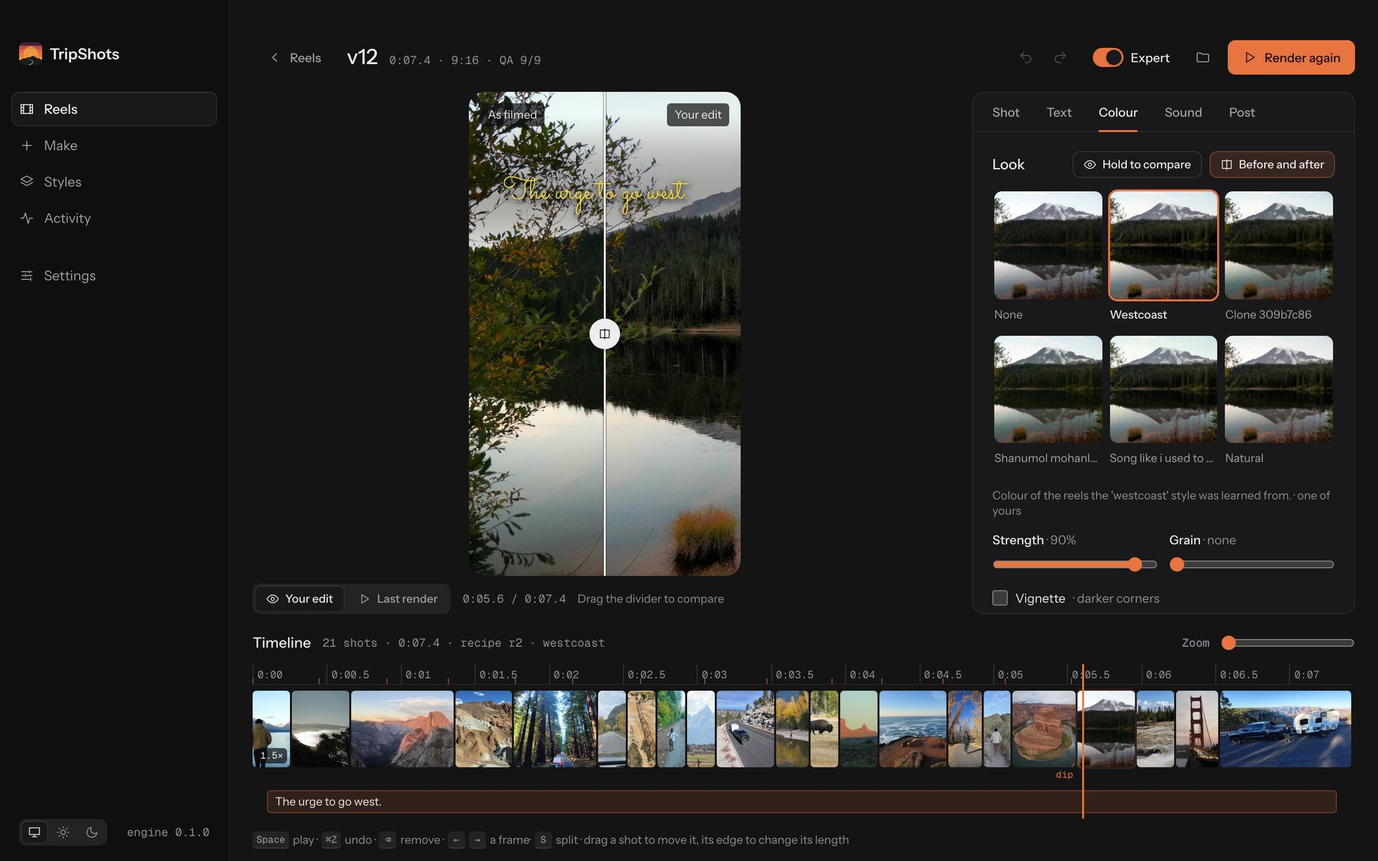
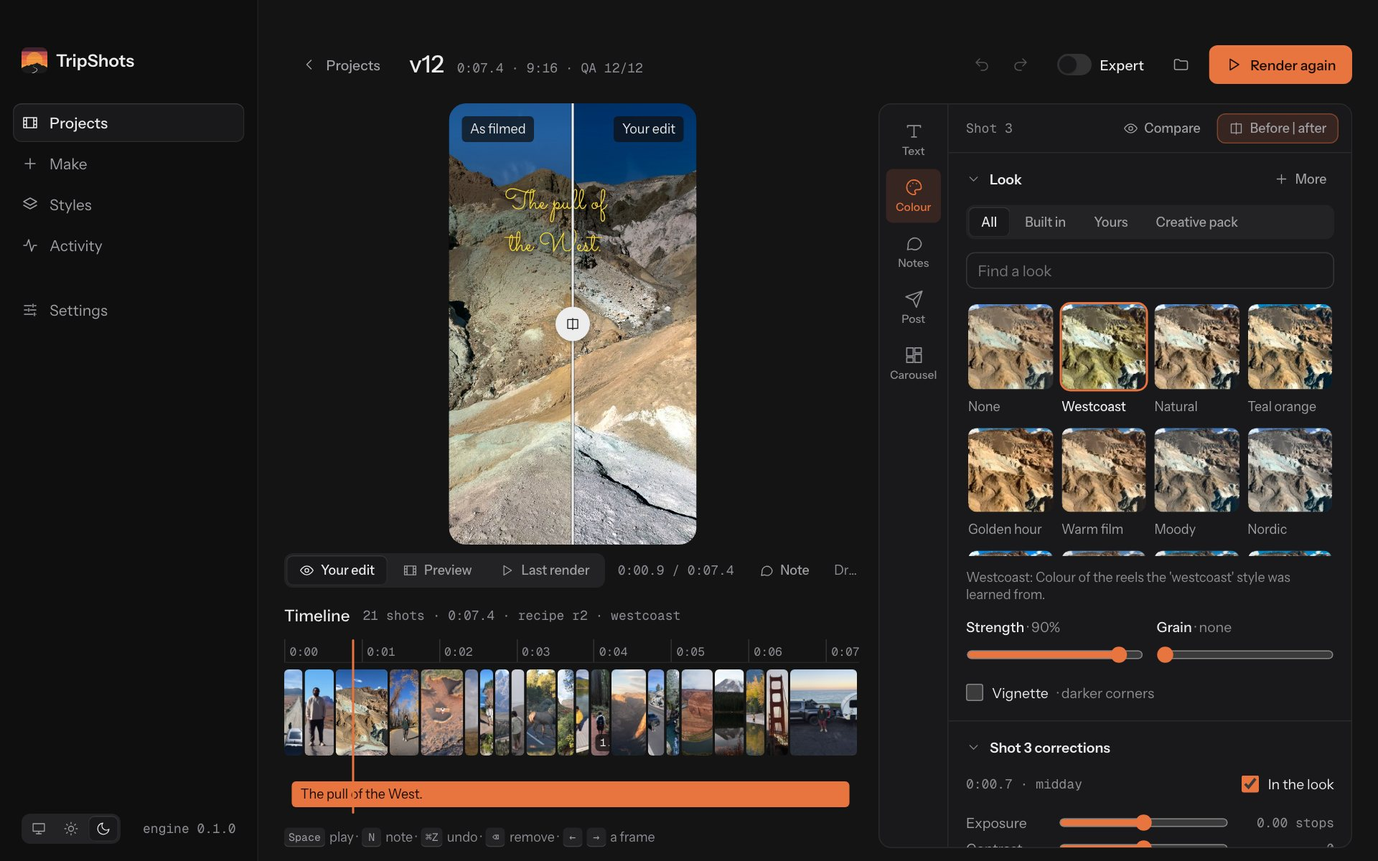
Page layouts in the app, and README screenshots of the current app
The Shot tab gets Page layout (prints on paper or a clip per place over
the route, with paper and map choices) and each page's words; Make gets
Pages; the reel detail API and MCP make carry them. The README's
screenshots are retaken from the current app (Projects, the editor,
page layouts, text, colour, Make, the ten AIs, the terminal app) and its
text describes what the app does now.

diff --git a/desktop/src/views/reel/ShotPanel.svelte b/desktop/src/views/reel/ShotPanel.svelte
@@ -23,6 +23,24 @@
       choosing = false;
     }
   }
+  // page layouts (pages.py): the whole reel on pages, and one page's words
+  const pageKinds = [["off", "Full screen"], ["print", "Prints on paper"], ["route", "A clip per place, over the route map"]];
+  let pageBusy = $state(false);
+  async function setPage(kind, extra = {}) {
+    pageBusy = true;
+    try {
+      await edit({ op: "page", kind, ...extra }, true);
+    } finally {
+      pageBusy = false;
+    }
+  }
+  let pw = $state({ title: "", left: "", right: "", label: "" });
+  let pkey = "";
+  $effect(() => {
+    const k = s?.page ? `${s.slot}|${JSON.stringify(s.page)}` : "-";
+    if (k !== pkey) ((pkey = k), s?.page && (pw = { title: s.page.title || "", left: s.page.left || "", right: s.page.right || "", label: s.page.label || "" }));
+  });
+  const pageWords = (k) => (s.page[k] || "") !== pw[k] && op({ op: "page", [k]: pw[k] }, true);
   const ramps = [[null, "None"], ["velocity", "Velocity"], ["slam", "Slam"], ["bullet", "Bullet"], ["rush", "Rush"], ["impact", "Impact"], ["surge", "Surge"]];
   const layouts = [["crop", "Crop to the subject"], ["pan", "Pan across"], ["blur_fill", "Whole frame, blurred behind"], ["fill", "Fill (already upright)"]];
   const nice = (id) => id.replace(/_/g, " ").replace(/^./, (c) => c.toUpperCase());
@@ -92,6 +110,36 @@
     {/if}
     <p class="quiet small">Transitions and moves show in motion: <b>Preview</b> or render to see them. The still above shows colour, effects and framing.</p>
   </Section>
+  <Section id="shot-page" title="Page layout" summary={(pageKinds.find(([k]) => k === (reel?.page?.kind || "off")) || [, ""])[1]}>
+    <div class="field">
+      <label for="pg-kind">Every shot</label>
+      <select id="pg-kind" value={reel?.page?.kind || "off"} disabled={ed.busy || pageBusy}
+              onchange={(e) => setPage(e.currentTarget.value)}>
+        {#each pageKinds as [k, label]}<option value={k}>{label}</option>{/each}
+      </select>
+    </div>
+    {#if reel?.page?.kind === "print"}
+      <div class="field">
+        <label for="pg-paper">Paper</label>
+        <select id="pg-paper" value={reel.page.paper || "white"} disabled={ed.busy || pageBusy}
+                onchange={(e) => setPage("print", { paper: e.currentTarget.value })}>
+          {#each [["white", "White"], ["cream", "Cream"], ["black", "Black"]] as [k, label]}<option value={k}>{label}</option>{/each}
+        </select>
+      </div>
+      <p class="quiet small">Each shot a print on the page, a word above it, where and when under it. The opening shot stays full screen with its hook</p>
+    {:else if reel?.page?.kind === "route"}
+      <div class="field">
+        <label for="pg-theme">Map</label>
+        <select id="pg-theme" value={reel.page.theme || "light"} disabled={ed.busy || pageBusy}
+                onchange={(e) => setPage("route", { theme: e.currentTarget.value })}>
+          {#each [["light", "Light"], ["dark", "Dark"]] as [k, label]}<option value={k}>{label}</option>{/each}
+        </select>
+      </div>
+      <p class="quiet small">Shots in the order you filmed them, the place under each, a pin on the trip's route. Needs footage with GPS from three places or more</p>
+    {:else}
+      <p class="quiet small">Set every shot on a page: prints on paper, or a clip per place over the route map</p>
+    {/if}
+  </Section>
 {/snippet}
 
 {#if ed.sel?.kind === "pip"}
@@ -159,6 +207,24 @@
     </div>
   </Section>
 
+  {#if s.page}
+    <Section id="shot-pagewords" title="Page" open={true} summary={s.page.title || s.page.label || s.page.left || ""}>
+      {#if reel?.page?.kind === "print"}
+        <div class="field"><label for="pg-title">Above the print</label>
+          <input id="pg-title" type="text" bind:value={pw.title} maxlength="40" onchange={() => pageWords("title")} placeholder="None" /></div>
+        <div class="grid2">
+          <div class="field"><label for="pg-left">Under, left</label>
+            <input id="pg-left" type="text" bind:value={pw.left} maxlength="40" onchange={() => pageWords("left")} /></div>
+          <div class="field"><label for="pg-right">Under, right</label>
+            <input id="pg-right" type="text" bind:value={pw.right} maxlength="40" onchange={() => pageWords("right")} /></div>
+        </div>
+      {:else}
+        <div class="field"><label for="pg-label">Under the picture</label>
+          <input id="pg-label" type="text" bind:value={pw.label} maxlength="40" onchange={() => pageWords("label")} /></div>
+        <p class="quiet small">{s.page.stop >= 0 ? `Pin on stop ${s.page.stop + 1} of the route` : "Where this was filmed isn't known: no pin"}</p>
+      {/if}
+    </Section>
+  {/if}
   {#if s.slot < reel.segments.length}
     {#if s.moves?.length}
       <Section id="shot-moves" title="Signature move" open={true} summary={s.moves.map((m) => m.name).join(", ")}>

diff --git a/desktop/src/views/Make.svelte b/desktop/src/views/Make.svelte
@@ -19,6 +19,7 @@
   let style = $state(app.prefill?.style || "");
   let name = $state("");
   let orientation = $state("auto");
+  let page = $state("auto");
   let light = $state("any");
   let variants = $state(1);
   let hook = $state("");
@@ -106,7 +107,8 @@
   function make() {
     if (!sources.length) return toast("Add a folder of photos and clips first", "error");
     run("make", { sources, music: sound.trim() || null, style: style || null, name: name.trim() || null,
-                  orientation, light: light === "any" ? null : light, variants, dry_run: planOnly,
+                  orientation, light: light === "any" ? null : light, page: page === "auto" ? null : page,
+                  variants, dry_run: planOnly,
                   hook: hook.trim() || null }, name.trim() || "New reel");
   }
   async function add(directory) {
@@ -245,6 +247,15 @@
             <select id="mk-light" bind:value={light}>
               {#each [["any", "Any light"], ["golden", "Golden hour and sunset"], ["sunset", "Sunset"], ["blue", "Blue hour"],
                       ["day", "Daylight"], ["night", "Night"]] as [id, label]}
+                <option value={id}>{label}</option>
+              {/each}
+            </select>
+          </div>
+          <div class="field">
+            <label class="lbl" for="mk-page">Pages <span class="hint">· a trend layout</span></label>
+            <select id="mk-page" bind:value={page}>
+              {#each [["auto", "Automatic (the AI may offer one)"], ["off", "Full screen"], ["print", "Prints on paper"],
+                      ["route", "A clip per place, over the route map"]] as [id, label]}
                 <option value={id}>{label}</option>
               {/each}
             </select>

diff --git a/tripshots/mcp_server.py b/tripshots/mcp_server.py
@@ -325,7 +325,7 @@ async def make_reel(sources: list[str], music: str | None = None, style: str | N
                     text_motion: str | None = None, no_location: bool = False,
                     captions: str | None = None, recipe: str | None = None,
                     orientation: str | None = None, fresh: str | None = None, light: str | None = None,
-                    stabilize: str | None = None) -> list:
+                    stabilize: str | None = None, page: str | None = None) -> list:
     """Plan (dry_run=true, default) or plan+render a reel.
 
     sources: selection ids from find_footage ("sel:xxxx") and/or folders/files.
@@ -354,6 +354,9 @@ async def make_reel(sources: list[str], music: str | None = None, style: str | N
       best shots again (e.g. another version of the same reel under a new name).
     light: golden | sunset | blue | day | night: only shots in that light (preferred, when too few are).
     stabilize: auto | on | off: take the shake out of handheld clips (auto: in calm or held shots).
+    page: auto | print | route | off: every shot on a page. print = each shot a photographic print on paper (a word
+      above, where and when under it); route = each shot in a window over the trip's route map, a pin on where it
+      was filmed (shots in the order filmed). auto (default) lets the effects director offer them.
     upload_copy: also write a copy without the music (automatic for reel links), so the user can post it and add the
       same sound inside Instagram: do this when the music is a commercial song.
     Returns the plan path and the storyboard image to review (or a job id to poll)."""
@@ -363,7 +366,7 @@ async def make_reel(sources: list[str], music: str | None = None, style: str | N
                      text_preset=text_preset, route_map=route_map, speed_ramps=speed_ramps, speed_up=speed_up,
                      drop_speed=drop_speed, format=format, text_motion=text_motion, captions=captions,
                      recipe=recipe, orientation=orientation, fresh=fresh, light=light,
-                     stabilize=stabilize)
+                     stabilize=stabilize, page=page)
     st = await _run_job(args, "make", name or " ".join(sources))
     return _finished(st)
 
@@ -447,6 +450,8 @@ async def edit_plan(plan: str, edits: list[dict]) -> list:
       {"op":"freeze","segment":3,"at":0.8,"dur":1.0}  (hold that frame, cut in there)  {"op":"reverse","segment":3,"on":true}
     Effects (list_effects): {"op":"effect","segment":3,"id":"glow","amount":0.5} (id null removes)
       {"op":"auto_effects"}  the effects director picks transitions, text motion/looks and shot effects again
+      {"op":"page","kind":"print"|"route"|"off","paper":"white"|"cream"|"black","theme":"light"|"dark"}  every shot on a page
+      {"op":"page","segment":3,"title":"The Coast","left":"Big Sur","right":"October 2026","label":"..."}  one page's words
       {"op":"log","segment":3|"all","profile":"apple_log"|"dlog"|"slog3"|"vlog"|"flog"|"flog2"|"clog3"|"auto"|null}  flat log footage made normal
     Overlay lane and keyframes: {"op":"pip_add","shot_id":"S040","start":3.0,"dur":2.0,"x":0.72,"y":0.28,"scale":0.4}
       {"op":"pip_edit","index":1,"x":0.3,"scale":0.5}  {"op":"pip_delete","index":1}

diff --git a/tripshots/server.py b/tripshots/server.py
@@ -114,7 +114,8 @@ def reel_detail(plan: Path) -> dict:
                      "vibes": list(((sh.get("ai") or {}).get("vibes") or {}))[:3],
                      "size": (sh.get("ai") or {}).get("shot_size"), "angle": (sh.get("ai") or {}).get("angle"),
                      "keys": s.get("keys") or [],
-                     "moves": [{"id": m, "name": MOVE_NAMES.get(m, m)} for m in moves_on(s)]})
+                     "moves": [{"id": m, "name": MOVE_NAMES.get(m, m)} for m in moves_on(s)],
+                     "page": {k: v for k, v in (s.get("page") or {}).items() if k != "held"} or None})
     from .planedit import history, texts as plan_texts
     cap = _side(plan, ".caption.txt")
     music = p.get("music") or {}
@@ -129,6 +130,7 @@ def reel_detail(plan: Path) -> dict:
             "beat_punch": (p.get("motion") or {}).get("beat_punch"),
             "sound_sheet": _side(plan, ".sound.jpg"), "grade": _side(plan, ".grade.jpg"),
             "draft": _draft(plan), "effects": p.get("effects"),
+            "page": {k: (p.get("page") or {}).get(k) for k in ("kind", "paper", "theme")} if p.get("page") else None,
             "pips": [{"index": k + 1, **{x: q.get(x) for x in ("shot_id", "kind", "start", "dur", "x", "y", "scale", "thumb")}}
                      for k, q in enumerate(p.get("pips") or [])]}
 

diff --git a/README.md b/README.md
@@ -11,7 +11,7 @@ effects, and renders a reel ready to post: upright 1080×1920, or a real 1920×1
 Nothing is generated: every frame is your own footage. Use it as a desktop app for macOS, Windows and Linux, from the
 command line, or through an AI agent.
 
-![The TripShots desktop app: your reels, newest first](docs/images/desktop-reels.jpg)
+![The TripShots desktop app: your projects, newest first, with pinned, favourites, collections and folders](docs/images/desktop-reels.jpg)
 
 ```
 your footage ─► find shots ─► AI judges each shot ─► beats of the song ─► edit plan ─► 1080×1920 reel
@@ -26,8 +26,9 @@ your footage ─► find shots ─► AI judges each shot ─► beats of the so
 - **Ask for footage the way you'd describe it:** by place ("Yellowstone National Park", matched by GPS inside its real outline), dates, or who's in it ("the pictures I'm in", "Lisbon with mom"), using face recognition that runs on your computer.
 - **Works with AI agents:** an [MCP server](docs/agents.md) for Claude Code, Claude Desktop, OpenClaw and any MCP agent, plus a portable [agent skill](skills/tripshots/SKILL.md) and `tripshots ask "…"`.
 - **Tells a story, not a slideshow:** every reel gets a hook in the first second, a build, a payoff on the drop and a looping ending; formats (POV, numbered places, Day N, reveal), cuts that follow dialogue and lyrics, match cuts, photos in depth, and a critic that checks the plan before rendering ([how](docs/storytelling.md)).
-- **Edits like a person would:** an AI (your Claude subscription, or a key for the Claude API, MiniMax, OpenAI, Gemini, Grok, Mistral, OpenRouter or DeepSeek, or a local Ollama model) judges every shot; cuts land on the beat; strong shots go on strong beats; landscape footage is reframed to 9:16 around the subject.
+- **Edits like a person would:** an AI (your Claude subscription, or a key for the Claude API, MiniMax, OpenAI, Gemini, Grok, Mistral, OpenRouter or DeepSeek, or a local Ollama model, tried in the order you set) judges every shot; cuts land on the beat; strong shots go on strong beats; wide footage is cropped to 9:16 from the frames that actually play, keeping people whole with room in front of them.
 - **Looks finished:** per-shot colour grading, transitions on the beat, animated text, titles behind the skyline, split screens, speed ramps, freeze-frames, animated route maps, real sound effects and ambience.
+- **Knows the trends:** an effects director picks transitions, text motion and the big trend moves for each reel (the flash zoom, freeze-frame intro, clone trail, colour pop, photo wall, backdrop swap, camera roll opener), and two page layouts: your shots as prints on paper, or a clip per place over the trip's route map ([the effects library](docs/effects.md)).
 - **Yours to change:** every reel is a readable `plan.json` with a storyboard. Swap a shot, change the hook, re-render; or open it in DaVinci Resolve / Premiere (EDL, OpenTimelineIO).
 - **Finish in Instagram's Edits:** hand the reel to the Edits Mac app with the hard parts baked in and the text, sound effects and song left editable, so you post with Instagram's licensed music ([how](docs/edits.md)).
 - **Analyses footage on its own:** `tripshots analyze` describes every photo and clip (caption, tags, subjects, scene, light, people, text, landmark, aesthetic, focus, colours, near-duplicates, camera, place, trip) into documented JSON that reels, other apps (collages, albums) and other AI tasks reuse ([format](docs/analysis.md)).
@@ -38,16 +39,21 @@ your footage ─► find shots ─► AI judges each shot ─► beats of the so
 A small native app (no bundled browser; about 5 MB) with light and dark themes. The engine that analyses footage and
 renders reels downloads once on first launch, checked against TripShots' signature, and keeps itself up to date.
 
-![A reel in the desktop app's editor, in Expert mode: the viewer showing your edit, the Shot tab with timing and transition, and the timeline with the beats](docs/images/desktop-reel.jpg)
+![A reel in the desktop app's editor, in Expert mode: a clip per place over the route map in the viewer, the Shot tab with the shot's tools, timing and its page words, and the timeline](docs/images/desktop-reel.jpg)
 
-- **Reels:** every reel you've made, grouped by folder, upright and wide side by side.
+- **Projects:** every reel you've made, upright and wide side by side, with pinned, favourites, collections, folders,
+  search and sort; rename, duplicate or move one to the Trash.
 - **Make:** describe the reel ("a reel with all my drone footage") and TripShots finds the footage, picks a style
   and a sound and makes it, or choose the footage, sound, style, shape and versions yourself; progress shows step
   by step.
-- **A reel:** an editor on one screen: the viewer, tabs for the words on screen (font, size, colour, place,
-  animation), the colour (looks previewed on your own shot, per-shot corrections) and the post (a caption
-  written for reach, hashtags, keywords, alt text), and the timeline. **Expert** adds shot-by-shot editing:
-  lengths on the beat, order, splits, speed, transitions, framing and the music.
+- **A reel:** an editor on one screen: the viewer (a still of your edit, a quick motion **Preview**, or the last
+  render), tabs for the words on screen (font, size, colour, place, animation), the colour (looks previewed on your
+  own shot, per-shot corrections, before and after), notes to change it in your own words, the post (a caption
+  written for reach, hashtags, keywords, alt text) and a carousel post, and the timeline. **Expert** adds
+  shot-by-shot editing: replace a shot with any clip and choose the part that plays (or let the AI choose), lengths
+  on the beat, order, splits, freeze, reverse, speed and ramps, transitions, effects and signature moves, zoom
+  keyframes, a shot on top, framing, steadiness, the page layout and the music. **Choose effects with AI** picks
+  them for the whole reel and says what it changed.
 - **Styles:** yours and the built-in ones, each a click from a new reel; learn one from reel links.
 - **Activity:** everything being made, rendered or learned, with its state, its steps and its log, including jobs
   started from the command line or an AI agent.
@@ -56,16 +62,23 @@ renders reels downloads once on first launch, checked against TripShots' signatu
 |---|---|
 | ![The Text tab: a line's words, timing, font shown in its own face, size and colour, with the preview of the edit](docs/images/desktop-text.jpg) | ![The Colour tab: each look shown on the shot itself, and the viewer split between the shot as filmed and the graded edit](docs/images/desktop-colour.jpg) |
 
-![Make: describe the reel in a sentence, or choose the footage, sound and style yourself](docs/images/desktop-make.jpg)
-- **Settings:** footage, reels and music folders, the browser to borrow your Instagram login from, light or dark,
-  updates, the `tripshots` command for your terminal, and a one-click connection to Claude (MCP).
+**Page layouts**, the newest trend formats: above, a clip per place over the trip's route; below, every shot as a print
+on paper. Switch them on in the Shot tab's **Page layout**, in Make, or let the effects director offer them.
 
-**Setting up the AI** takes a minute in Settings > AI: step-by-step instructions for each AI, with buttons that open
-the right page or a Terminal, a key field, and a **Test** that sends one short message. Claude uses your Pro or Max
-plan (install Claude Code and log in, no key); MiniMax and the Claude API take a key; Gemini is an optional free key
-that lets TripShots watch your clips and hear dialogue.
+![The Page layout section: every shot set as a print on white paper, a word above it and where and when under it](docs/images/desktop-pages.jpg)
 
-![Settings > AI: status, steps and a Test for Claude, MiniMax, Gemini and the Claude API](docs/images/desktop-ai.png)
+![Make: describe the reel in a sentence, or choose the footage, sound, style, shape, light, pages and versions yourself](docs/images/desktop-make.jpg)
+- **Settings:** your AIs, footage, reels and music folders, footage analysis, the browser to borrow your Instagram
+  login from, light or dark, updates, the `tripshots` command for your terminal, a one-click connection to Claude
+  (MCP), and privacy (anonymous usage counts and crash reports only with a yes, and **Report a problem**).
+
+**Setting up the AI** takes a minute in Settings > AI: ten AIs in one list, each with its steps, a key field, its
+model and a **Test** that sends one short message. Automatic tries them in the list's order and moves to the next
+when one runs out or stops working; the arrows change the order and a switch leaves one out. Claude uses your Pro or
+Max plan (install Claude Code and log in, no key); the others take a key (Gemini has a free tier, and also lets
+TripShots watch your clips and hear dialogue), or run on your own computer (Ollama).
+
+![Settings > AI: Claude, the Claude API, MiniMax, OpenAI, Gemini, Grok, Mistral, OpenRouter, DeepSeek and Ollama in the order Automatic tries them](docs/images/desktop-ai.jpg)
 
 **Install:** download the installer for your computer from the
 [latest release](https://github.com/abelkuruvilla/tripshots/releases/latest): `.dmg` (Mac with Apple Silicon),
@@ -136,7 +149,8 @@ The app brings its own engine.
 **Command line:** Python 3.10+ and ffmpeg 6+. macOS is the main target; Linux works; Windows is untested.
 
 Both: (recommended) an AI: [Claude Code](https://docs.claude.com/en/docs/claude-code) logged in with a Claude
-subscription, a MiniMax key, or an Anthropic API key. Without one, TripShots still works on technical measures alone.
+subscription, or a key for the Claude API, MiniMax, OpenAI, Gemini, Grok, Mistral, OpenRouter or DeepSeek, or a model
+running in Ollama. Without one, TripShots still works on technical measures alone.
 Node.js 22+ only for route maps.
 
 ## Privacy

diff --git a/CHANGELOG.md b/CHANGELOG.md
@@ -6,7 +6,7 @@ versions follow [Semantic Versioning](https://semver.org/).
 ## [Unreleased]
 
 ### Added
-- **Two new trend formats: the gallery print and the route split.** The gallery print sets each shot on a white page as a photographic print, with a word or two above it (The Peaks, The Coast, From Above) and where and when in small captions under it, a page per beat. The route split shows each shot in a wide window with the place's name under it, and under that the whole trip's route on a map, the pin jumping to where the shot was filmed. The shots go in the order they were filmed, and clips from a camera without GPS take the place of the photo taken nearest in time. The effects director offers both to reels that can carry them. `make --page print|route|off`, style key `page`, plan edit `page` (docs/effects.md).
+- **Two new trend formats: the gallery print and the route split.** The gallery print sets each shot on a white page as a photographic print, with a word or two above it (The Peaks, The Coast, From Above) and where and when in small captions under it, a page per beat. The route split shows each shot in a wide window with the place's name under it, and under that the whole trip's route on a map, the pin jumping to where the shot was filmed. The shots go in the order they were filmed, and clips from a camera without GPS take the place of the photo taken nearest in time. The effects director offers both to reels that can carry them. In the app: **Page layout** in the Shot tab (with each page's words) and **Pages** in Make; `make --page print|route|off`, style key `page`, plan edit `page`, MCP `make` `page` (docs/effects.md).
 - **Crops placed on the part that plays.** When a wide clip is cut to the reel's shape, TripShots now looks at frames across the part that actually plays, not one thumbnail from another moment. Nobody in front is cut by the frame's edge. A group that fits stays together, otherwise the main person is held. One person looking sideways gets room in front of them. Someone walking across is followed slowly. In a crop that cuts top and bottom, eyes sit high and heads aren't cut. Choosing another part of a clip, swapping a shot or trimming it re-frames the shot on its own. Moving **Looks at** in the Shot tab pins the framing by hand, and **Back to automatic** undoes that (plan edit `frame` with `auto`).
 - **Flash zoom.** A new signature move: on the beats before a cut the picture snaps closer to the person in steps, with a flash on each hit and a hit in the sound. It aims at their face (or the whole person, or the shot's subject when nobody is in it) and follows them as they move. The effects director chooses where it goes and sets the number of hits, how close it gets, the flash colour (white, warm, cool or none) and whether the last hit snaps back out. Without an AI, you on the drop of an upbeat song get it (docs/effects.md).
 - **More AI providers, in the order you choose.** Besides your Claude plan, MiniMax and the Claude API, TripShots now works with OpenAI, Google Gemini, xAI Grok, Mistral, OpenRouter, DeepSeek and Ollama (a model on your own computer). In **Settings → AI** each one has its key, its model and a **Test** button, and the list is the order Automatic tries them in: arrows move one earlier or later, and a switch leaves one out. When one runs out, refuses its key, stays busy or can't be reached, the next takes over. An AI that can't look at pictures (DeepSeek) still writes the words and picks effects while the next one judges the footage. `-b openai`, `-b gemini`, ... use one only (docs/ai-backends.md).

diff --git a/docs/mcp-tools.md b/docs/mcp-tools.md
@@ -224,6 +224,9 @@ fresh: on | off. on (default): a series from the same footage doesn't repeat its
   best shots again (e.g. another version of the same reel under a new name).
 light: golden | sunset | blue | day | night: only shots in that light (preferred, when too few are).
 stabilize: auto | on | off: take the shake out of handheld clips (auto: in calm or held shots).
+page: auto | print | route | off: every shot on a page. print = each shot a photographic print on paper (a word
+  above, where and when under it); route = each shot in a window over the trip's route map, a pin on where it
+  was filmed (shots in the order filmed). auto (default) lets the effects director offer them.
 upload_copy: also write a copy without the music (automatic for reel links), so the user can post it and add the
   same sound inside Instagram: do this when the music is a commercial song.
 Returns the plan path and the storyboard image to review (or a job id to poll).
@@ -255,6 +258,7 @@ Returns the plan path and the storyboard image to review (or a job id to poll).
 | `fresh` | string/null | null |
 | `light` | string/null | null |
 | `stabilize` | string/null | null |
+| `page` | string/null | null |
 
 ## reel_results
 
@@ -334,6 +338,8 @@ Timeline (times snap to frames; later text moves with the cut):
   {"op":"freeze","segment":3,"at":0.8,"dur":1.0}  (hold that frame, cut in there)  {"op":"reverse","segment":3,"on":true}
 Effects (list_effects): {"op":"effect","segment":3,"id":"glow","amount":0.5} (id null removes)
   {"op":"auto_effects"}  the effects director picks transitions, text motion/looks and shot effects again
+  {"op":"page","kind":"print"|"route"|"off","paper":"white"|"cream"|"black","theme":"light"|"dark"}  every shot on a page
+  {"op":"page","segment":3,"title":"The Coast","left":"Big Sur","right":"October 2026","label":"..."}  one page's words
   {"op":"log","segment":3|"all","profile":"apple_log"|"dlog"|"slog3"|"vlog"|"flog"|"flog2"|"clog3"|"auto"|null}  flat log footage made normal
 Overlay lane and keyframes: {"op":"pip_add","shot_id":"S040","start":3.0,"dur":2.0,"x":0.72,"y":0.28,"scale":0.4}
   {"op":"pip_edit","index":1,"x":0.3,"scale":0.5}  {"op":"pip_delete","index":1}

diff --git a/docs/desktop.md b/docs/desktop.md
@@ -98,7 +98,7 @@ it's used). On a Mac, install ffmpeg once with `brew install ffmpeg`; the Window
     replace, add a shot after it, remove it, its length, which part of the clip plays (a slider, or **Choose the part on
     the clip, or let AI choose**), speed and speed ramps, the
     transition into the next shot and an effect on the shot (pickers that draw each one on your own shots, filtered
-    by energy; **Choose effects with AI** for the whole reel, which lists what it changed and offers **Preview**, since transitions and moves only show in motion: see [the effects library](effects.md)); a shot's signature move (marked ✦ on the timeline) with **Remove**, framing (crop, pan, whole frame; the crop is placed automatically on the part that plays, keeping people whole with room in front of them, until you move **Looks at**, and **Back to automatic** undoes that). **Sound**: where the song starts, the music
+    by energy; **Choose effects with AI** for the whole reel, which lists what it changed and offers **Preview**, since transitions and moves only show in motion: see [the effects library](effects.md)); a shot's signature move (marked ✦ on the timeline) with **Remove**, framing (crop, pan, whole frame; the crop is placed automatically on the part that plays, keeping people whole with room in front of them, until you move **Looks at**, and **Back to automatic** undoes that). **Page layout** sets every shot on a page: prints on paper (white, cream or black; each page's word above and captions under it can be changed in the shot's **Page** section) or a clip per place over the trip's route map (light or dark; each page's place name can be changed). **Sound**: where the song starts, the music
     level, its fade out and the beat punch. Space plays, ← → step a frame (⇧ a second). Later text moves with the
     cuts; subtitles and lyrics stay with the song.
 - **Styles** (⌘3): yours, then the built-in ones, each with **Make a reel**. **Learn a style** takes reel links
